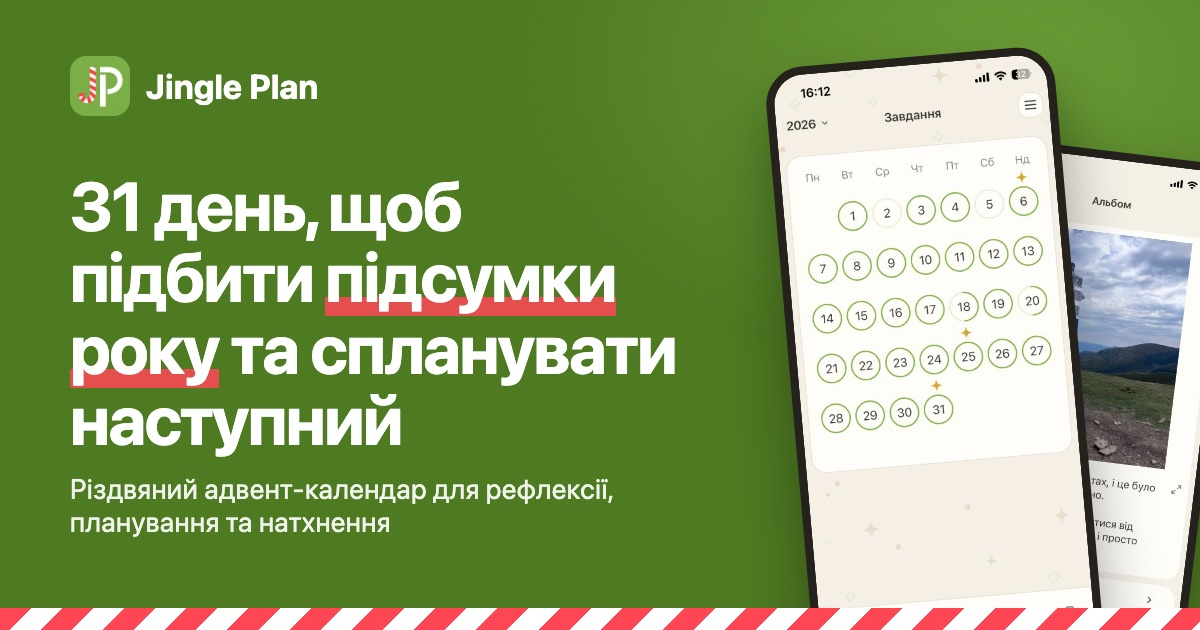
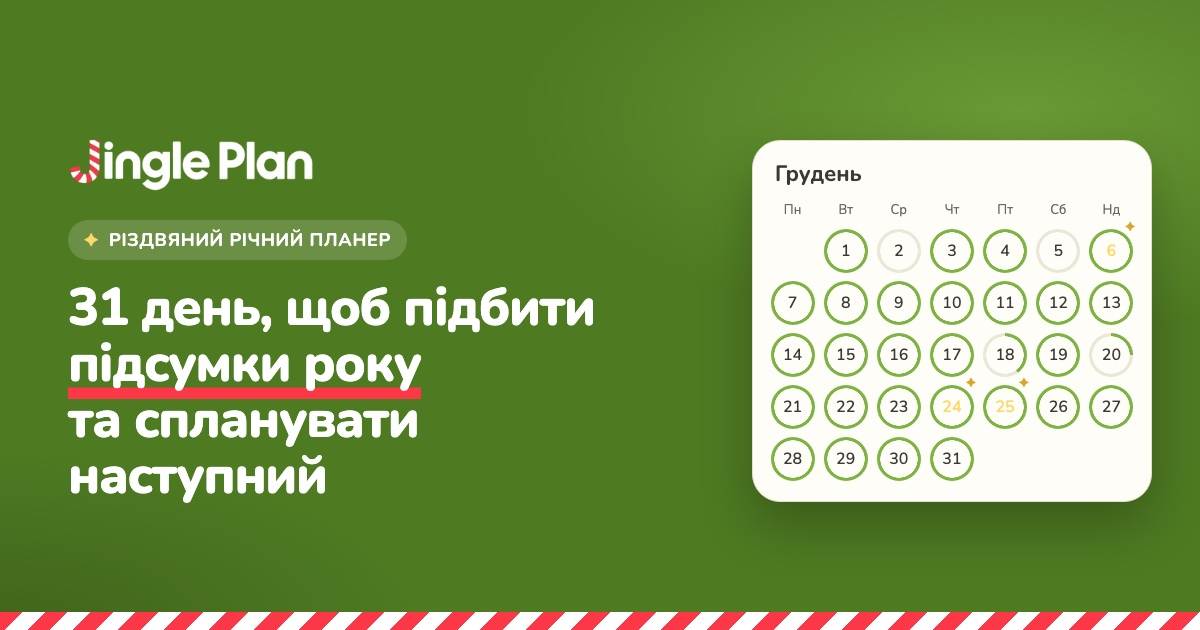
Update the home share preview to the current hero and give it a new address.

diff --git a/src/seo/head.ts b/src/seo/head.ts
@@ -12,10 +12,15 @@ export function langUrl(siteUrl: string, lang: Lang): string {
   return `${siteUrl}${homePath(lang)}`;
 }
 
+function homeOgImage(siteUrl: string, lang: Lang): string {
+  const file = lang === DEFAULT_LANG ? "/og-uk-2.jpg" : `/og-${lang}.jpg`;
+  return `${siteUrl}${file}`;
+}
+
 export function buildHead(lang: Lang, siteUrl: string): string {
   const { meta } = getDictionary(lang);
   const url = langUrl(siteUrl, lang);
-  const image = `${siteUrl}/og-${lang}.jpg`;
+  const image = homeOgImage(siteUrl, lang);
   const title = escapeAttr(meta.title);
   const description = escapeAttr(meta.description);
 
